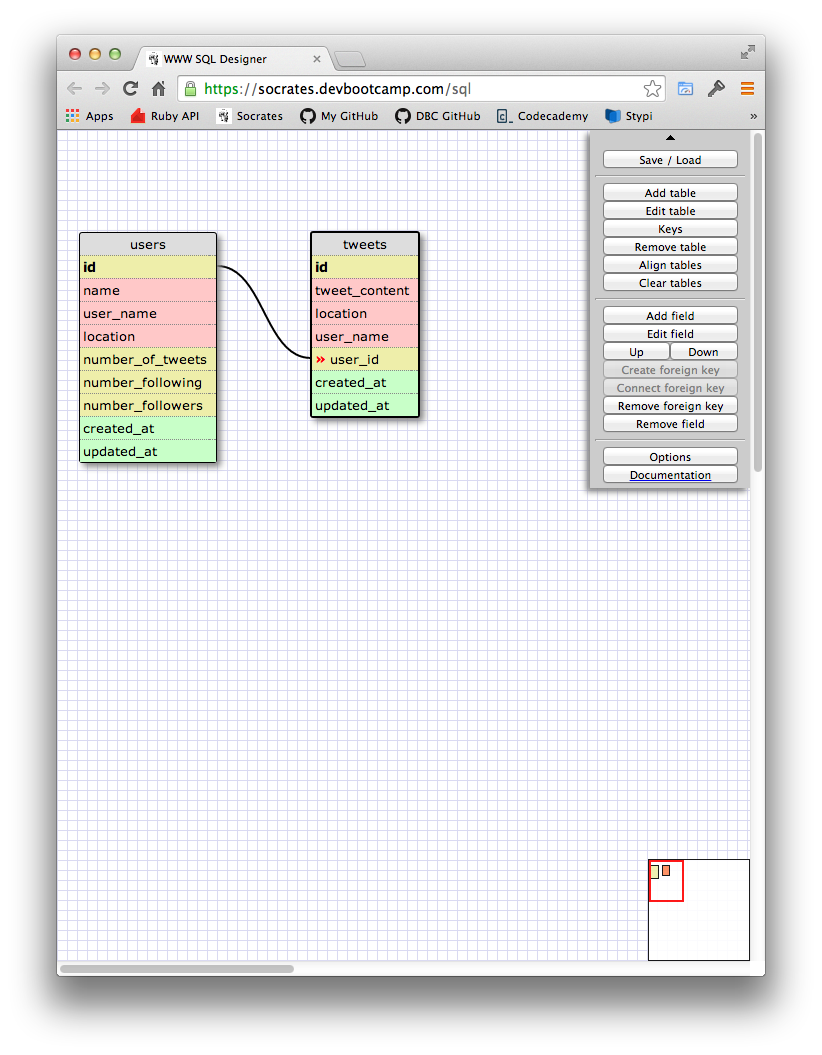
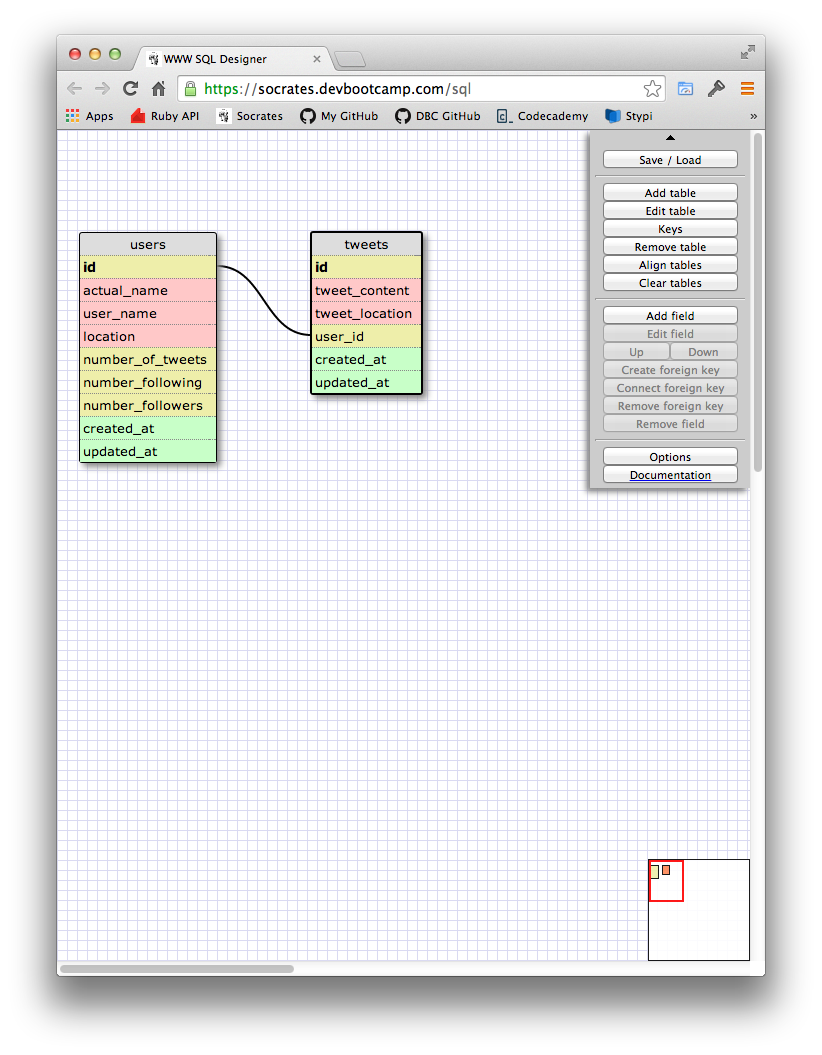
Update schema

diff --git a/week_7/3_model_one_to_many_solo_challenge/my_solution.md b/week_7/3_model_one_to_many_solo_challenge/my_solution.md
@@ -7,19 +7,20 @@ User fields Twitter collects:
 1. number_of_tweets (integer)
 2. number_following (integer)
 3. number_followers (integer)
-4. name (string)
+4. actual_name (string)
 5. user_name (string)
 6. location (string)
 7. created_at (DateTime)
 8. updated_at (DateTime)
+
 ## Release 1: Tweet Fields
 Fields Twitter uses to represent/display a tweet:
 
-1. user_name (string)
-2. location (string)
-3. tweet_content (string)
-4. created_at (DateTime)
-5. updated_at (DateTime)
+
+1. tweet_location (string)
+2. tweet_content (string)
+3. created_at (DateTime)
+4. updated_at (DateTime)
 
 ## Release 2: Explain the relationship
 The relationship between `users` and `tweets` is: One-to-Many because each user can have many tweets, but each tweet is associated with only one user.
@@ -30,6 +31,14 @@ The relationship between `users` and `tweets` is: One-to-Many because each user 
 
 ## Release 4: SQL Statements
 <!-- Include your SQL Statements. How can you make markdown files show blocks of code? -->
+
+* All the tweets for a certain user id
+
+* The tweets for a certain user id that were made after last Wednesday (whenever last Wednesday was for you)
+
+* All the tweets associated with a given user's twitter handle
+
+* The twitter handle associated with a given tweet id
 
 ## Release 5: Reflection
 <!-- Be sure to add your reflection here!!! -->
